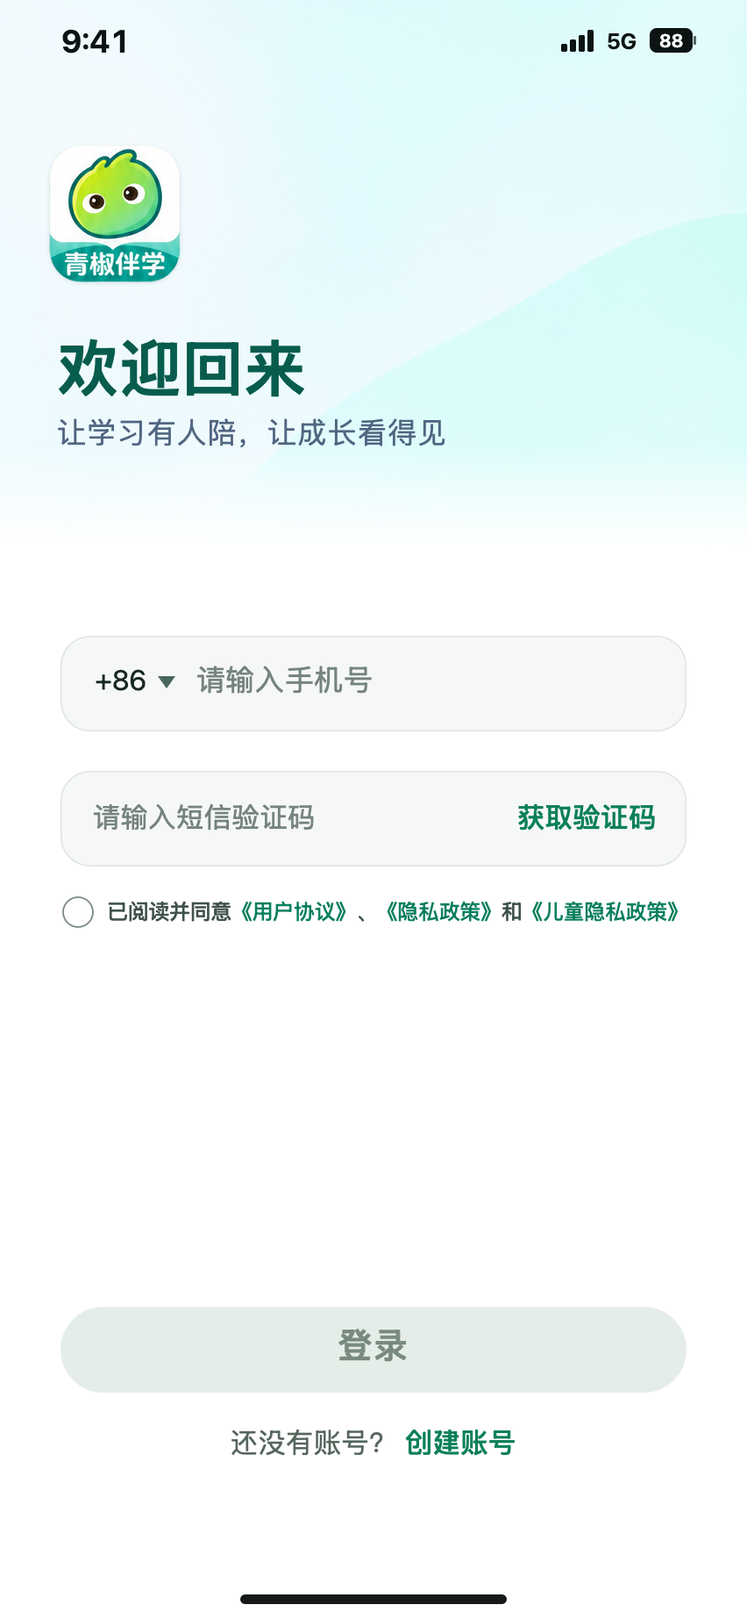
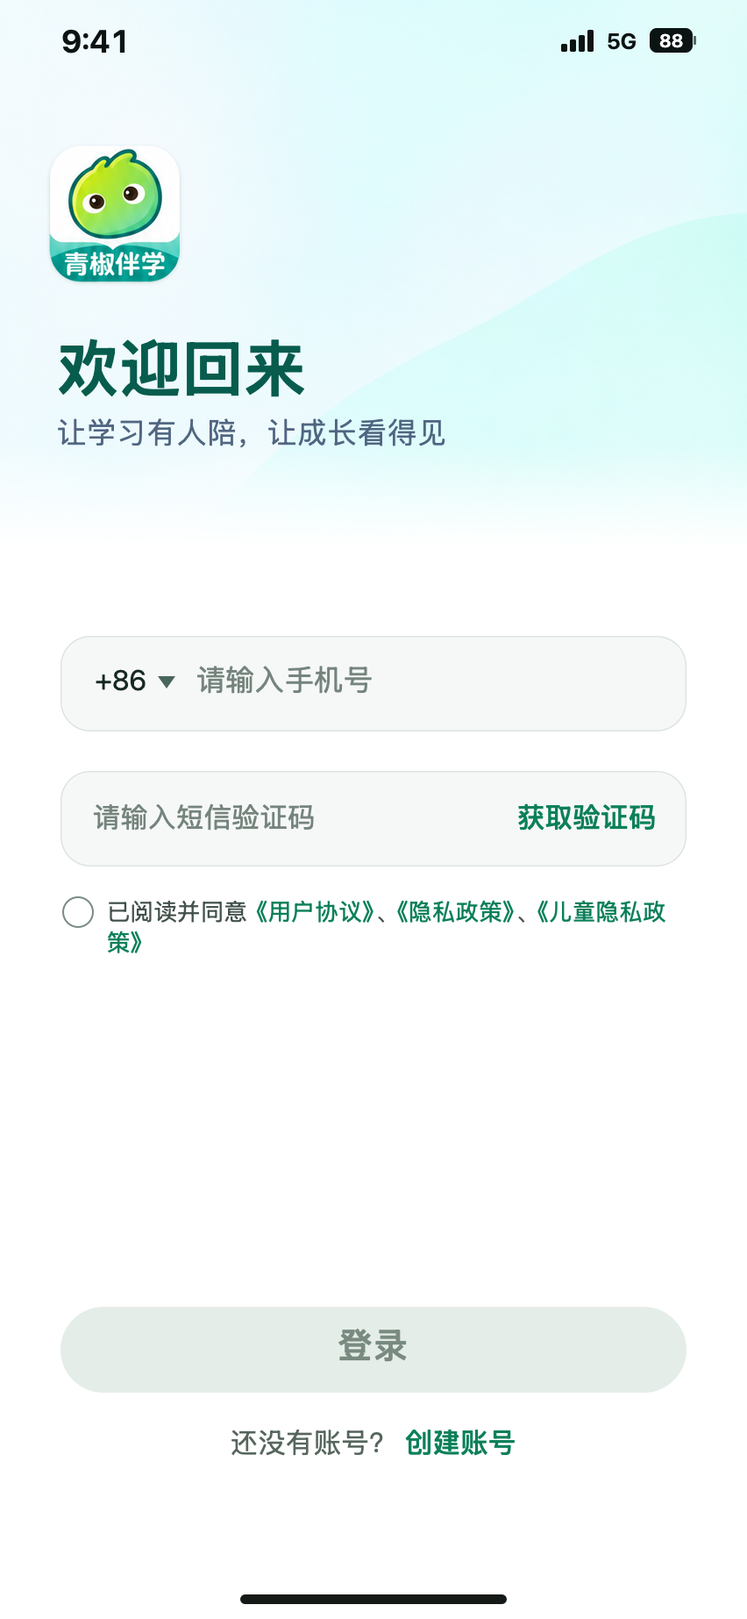
Match login consent to registration artwork

Changed region(s): [[0.1526, 0.5558, 0.9155, 0.5867]]

diff --git a/index.html b/index.html
@@ -9,13 +9,15 @@
 .learning-select{position:absolute;z-index:2;left:68%;width:23%;height:4.8%;border:0;border-radius:4px;background:#fff;color:#52668d;padding:0 3.1cqw 0 .5cqw;font-family:inherit;font-size:3.9cqw;cursor:pointer;appearance:none}
 .learning-select.grade{top:44.8%}.learning-select.textbook{top:52.2%}
 .learning-value{position:absolute;z-index:2;left:28.5%;top:31.6%;padding:0 .5cqw;background:#fff;color:#005749;font-size:4.8cqw;font-weight:700}
+.hotspot-continuation{position:absolute;border-radius:inherit}
+.hotspot:hover .hotspot-continuation,.hotspot:focus-visible .hotspot-continuation,.show-hotspots .hotspot-continuation{background:#00ad8c17;outline:1.5px dashed #009e83}
 </style><link rel="stylesheet" href="review-enhancements.css?v=20"><link rel="stylesheet" href="review-current.css?v=3">
 </head><body>
 <header><div class="brand"><div class="brand-mark">青</div><div><strong>青椒伴学 · 核心 UI</strong><small>设计审阅</small></div></div><div class="tools"><label class="toggle"><input id="hotspot-toggle" type="checkbox">显示交互热区</label><button id="overview-toggle">页面总览</button><button id="study-start" class="primary">查看学习计划</button></div></header>
 <main class="shell" id="shell" hidden><aside class="rail"><input id="search" aria-label="搜索页面" placeholder="搜索页面或状态"><nav id="nav" aria-label="设计页面目录"></nav></aside><section class="workspace"><div class="work-head"><div><h1 id="page-title"></h1><p id="page-meta"></p></div><div class="step-controls"><button id="read-interaction" class="detail-jump">交互说明</button><button id="previous" aria-label="上一张">‹</button><button id="next" aria-label="下一张">›</button></div></div><div class="stage" id="stage"><div class="screen" id="screen"><img id="screen-image" alt=""><div id="hotspots"></div><div id="learning-fields"></div></div></div></section><aside class="detail" id="interaction-detail"><h2 id="detail-title"></h2><p id="feature"></p><h3>功能、状态与权限</h3><ul id="rules"></ul><h3>查看交互去向</h3><div id="actions" class="action-links"></div><div class="file-links"><a id="original" target="_blank" rel="noopener">查看原图 ↗</a><a id="download" download>下载 PNG</a></div><p class="hint">手机稿按原尺寸提供下载。短信、上传、播放、反馈等流程使用演示数据。</p><p class="status"></p></aside></main>
 <section class="overview" id="overview"><h1>UI 设计图</h1><div id="overview-groups"></div></section>
 <script id="review-data" type="application/json">{"screens":[{"id":"00","group":"首页","name":"首页 · 已排课","file":"00-首页-已排课.png"},{"id":"00-empty","group":"首页","name":"首页 · 未排课","parent":"00","file":"00-首页-未排课.png"},{"id":"01","group":"账号","name":"手机号登录","parent":null,"spec":"A clean welcoming phone-code login screen, no tabs or back arrow. Compact green pepper smiling brand logo above 青椒伴学. Warm heading 欢迎回来 and subtitle 让学习有人陪，让成长看得见. White form card contains labels 购课登记手机号 and 短信验证码, phone input placeholder 请输入购课登记手机号, code input 请输入验证码 and inline 获取验证码. Wide turquoise 登录并开始学习 button. Below an UNCHECKED consent checkbox with 我已阅读并同意 plus separate 用户协议 and 隐私政策 text links. Small supporting text 仅面向已购伴学服务、由老师建档的学生. No registration, no password login, no social logins, no fake SMS duration/countdown, no demonstration 123456 in product UI. Friendly illustration no more than 20% of screen.","file":"01-手机号登录.png"},{"id":"02","group":"账号","name":"选择学生","parent":null,"spec":"Subpage title 选择学生. Heading 今天，陪谁一起学习？ subtitle 同一账号下的学生，学习记录各自独立. Two large tappable white student rows: illustrated friendly pepper avatar, 林小禾 / 五年级 · 数学, right chevron; second slightly different friendly pepper expression, 林小满 / 七年级 · 数学, right chevron. Subtle current badge 当前学生 on 林小禾 for this switch-student variant, not an editable control. Bottom explanation 学生档案由老师建立，如有疑问请联系老师. No 新增学生, no editing grade, no destructive controls. No bottom tabs.","file":"02-选择学生.png"},{"id":"02A","group":"账号","name":"完善学习信息","parent":"02","file":"02A-完善学习信息-v2.png","spec":"沿用02的852×1846画布比例；按当前学生确认年级及教材版本。","artwork":"assets/learning-reference.png"},{"id":"03","group":"账号","name":"未关联学生","parent":null,"spec":"Subpage title 暂未关联学生. Spacious centered empty-state illustration: small friendly pepper holding an unlinked student card, modern teal/lime illustrative style, not sad or alarming. Title 当前手机号尚未关联学生. Body 请使用购课登记手机号登录，或通过已有服务渠道联系老师. A single primary 更换手机号 button. Below subtle helper 学生档案由老师建立. No 自动创建, no 注册, no invented teacher contact QR or unknown phone.","file":"03-未关联学生.png"},{"id":"04","group":"学习","name":"周历与待发布周报","parent":null,"spec":"Main STUDY tab screen. Page heading 学习, subtitle 看得见安排，也看得见每一次努力, small pepper mascot top right matching brand. First white calendar card: title 这周的学习安排, small 回到本周 link. Week header left/right chevrons, 11月2日—11月8日. Exactly one row of seven days 周一 2, 周二 3, 周三 4, 周四 5, 周五 6, 周六 7, 周日 8. 4 selected turquoise rounded capsule, small course dots under 2,4,6, no dots other dates. Supporting legend 有已发布安排 · 点击日期查看. Below section 本周学习周报, generous white empty-state card with small illustrated report/book icon, 本周周报尚未发布, 老师发布后，你可以在这里查看, secondary outlined 查看上周周报 button. No monthly calendar, no separate tabs for 周计划/学习周报, no create plan control. Bottom navigation visible with 学习 active.","file":"04-周历与待发布周报.png"},{"id":"05","group":"学习","name":"上周已发布周报","parent":"04","spec":"Keep precisely the same 学习 main screen layout as second reference, with 学习 tab selected. Calendar week changes to 10月26日—11月1日 and seven day numbers 26,27,28,29,30,31,1, course dots under26,28,30; 30 selected. Section 上周学习周报. Replace unpublished empty card with published report card, small report illustration on right, title 一周，一点进步, date10.26—11.01, metadata 3次安排 · 2份作业已提交, small 已发布 · 第1版 pill, turquoise 查看周报 button. Keep 回到本周 link and week chevrons.","file":"05-上周已发布周报.png"},{"id":"06","group":"学习","name":"日期课程弹层","parent":"04","spec":"Date-schedule BOTTOM SHEET overlay on the same 学习 calendar screen as second reference. Dim background softly but retain recognizable calendar and tab bar; overlay covers lower ~53%. Sheet white, rounded top corners, drag handle and close x. Title 11月4日的学习安排, subtitle 周三 · 已发布. One course white/mint card: 数学, 小数乘法的算理, 今天19:00—19:40. Small beautiful math video thumbnail 0.3 × 4 with play symbol, metadata 视频1个 · 原练习3题. Two clear actions: primary 进入学习, secondary 预览练习. Do not repeat 今天上课 badges, do not force video before practice. Sheet padded above home indicator, no tab bar on top of sheet.","file":"06-日期课程弹层.png"},{"id":"07","group":"学习","name":"当天无课程弹层","parent":"06","spec":"State variant of the date-schedule bottom sheet second reference. Background calendar retains current week but select 周四5. Compact white bottom sheet about 36% height with close button and handle. Heading 11月5日的学习安排. Small outlined mint calendar illustration. Message 当天暂无已发布课程. Supporting text 可以切换日期，查看其他学习安排. Neutral 知道了 button that closes sheet. No course cards, no 创建计划 or guessed future plans, no fake data.","file":"07-当天无课程弹层.png"},{"id":"08","group":"课时","name":"课时详情","parent":null,"spec":"Subpage header 学习内容. Top date 11月4日 周三 · 19:00—19:40, heading 小数乘法的算理. Supporting 按自己的节奏开始，不需要依次完成. FOUR compact separate white action cards stacked with balanced spacing, not a timeline requiring order. Each has colorful icon left, text middle and control right:\n看视频 / 已观看35% / 继续观看.\n做练习 / 原练习 · 3题 · 可下载打印 / 预览练习.\n交作业 / 纸笔完成后，拍照整份上传 / 上传作业.\n老师反馈 / 老师发布后可以查看 / 查看状态 (secondary).\nAt bottom a quiet tip 视频、练习与作业可自由进入. No completed/掌握 claims. No empty 加练 entry before teacher publishes, no tabs. All four action cards must fit without compressed glyphs.","file":"08-课时详情.png"},{"id":"09","group":"课时","name":"未来课时未开放","parent":"08","spec":"Exact layout variant of lesson detail reference. Date11月6日 周五 · 19:00—19:40, same course 小数乘法的算理. Add quiet visible mint notice 11月6日00:00开放视频与作业提交 and small 北京时间. 看视频 card locked with 未到学习日 and gray disabled 待开放; 做练习 card remains active 预览练习 with3题 and PDF info; 交作业 locked 待开放; 老师反馈 secondary 查看状态 not a fake published result. Supporting text 现在可以预览练习. No countdown or unlock time19:00; schedule time is not the lock threshold.","file":"09-未来课时未开放.png"},{"id":"10","group":"视频","name":"视频学习 · 多课程","parent":null,"spec":"390×844布局基准，852×1846设计稿；一排三节课程，播放器内倍速，关键节点真人形象AI老师讲解示意；下方总结卡片留足间距，无播放位置提示行。","file":"10-视频学习-v2.png","artwork":"assets/video-reference.png"},{"id":"11","group":"视频","name":"网络失败","parent":"10","spec":"Same 视频学习 layout as reference. Within 16:9 player replace lesson image with calm very pale mint error surface, small tasteful disconnected-network illustration, heading 网络连接失败, helper 请检查网络后重试 and primary 重试播放 button. Keep below course 小数乘法的算理 and remembered-position helper. Bottom 前往练习 remains accessible. No cartoon alarm, no entire-screen huge warning. Preserve page geometry.","file":"11-网络失败.png"},{"id":"12","group":"视频","name":"无观看权限","parent":"10","spec":"Same 视频学习 page geometry. In player state surface use small mint shield/lock illustration, heading 暂无该视频观看权限, helper 请联系老师了解详情. No retry-play button, no purchase or renew CTA. Course title and 前往练习 remain below. Secondary 联系老师 text control may open existing shared contact sheet. Distinguish this state clearly from network failure.","file":"12-无观看权限.png"},{"id":"13","group":"视频","name":"资源不可用","parent":"10","spec":"Same 视频学习 page geometry. In player state area show small mint file/video unavailable illustration, heading 视频资源暂不可用, helper 请稍后再试，或联系老师了解详情. No claim permission expired, no invented reason, no purchase or renewal. Keep course heading and 前往练习 below.","file":"13-资源不可用.png"},{"id":"14","group":"视频","name":"观看有效期届满","parent":"10","spec":"Same 视频学习 page geometry. Player state shows small calendar-lock illustration, heading 视频观看有效期已届满, helper 请联系老师了解详情. Secondary 联系老师 button. Retain 小数乘法的算理 and 前往练习 below. Do not show guessed validity length or automatic renewal. Do not call this 服务到期: video authorization is independent of service.","file":"14-观看有效期届满.png"},{"id":"15","group":"练习作业","name":"原练习预览","parent":null,"spec":"Subpage 练习预览. Label 原练习 · 纸笔作答, right 共3题, heading 小数乘法的算理. White paper-like content with three clear numbered questions and generous ruled handwriting space:\n1. 计算：0.3 × 4 = ______\n2. 一盒彩笔2.5元，买3盒一共多少钱？\n3. 小禾每天步行1.2千米，5天一共步行多少千米？\nThese are static printable questions, NOT input fields, no answer buttons or correct answers.\nBottom fixed action area with outlined 下载原练习PDF and primary 完成了，上传作业. Small helper 练习PDF不含答案，反馈发布后可查看. Ensure handwriting spaces and questions visible; numbered questions printed on a single paper sheet. No bottom tabs.","file":"15-原练习预览.png"},{"id":"16","group":"练习作业","name":"老师加练预览","parent":"15","spec":"Same printable exercise page layout but nav title 巩固加练. Tag 老师发布 · 一轮加练. Title 小数乘法巩固练习, 共3题. Paper questions: 1.计算：0.4 × 3 = ______; 2.每盒彩笔2.6元，4盒共多少元？; 3.每天步行1.5千米，4天共多少千米？ Handwriting areas, no answers and no online inputs. Bottom secondary 下载加练PDF and primary 完成了，上传加练. Small text 老师发布后即可完成，不另扣课时. No automatic second round, no mastery meter.","file":"16-老师加练预览.png"},{"id":"17","group":"练习作业","name":"多图作业待提交","parent":null,"spec":"Subpage 原练习作业. Course 小数乘法的算理, subtitle11月4日 周三 · 原练习. Gentle helper 请拍清整页，保留题目和答案. White upload area: two realistic photographed elementary math homework paper thumbnails with tidy visible pencil arithmetic and page numbers 第1张, 第2张. These are photographs, not flat icons. Each thumbnail small x delete control at top-right. A third equal-size dashed mint + 添加图片 tile with 拍照或从相册选择 helper. Below note 支持多张图片，不支持PDF上传. Wide bottom primary 确认整份提交 · 2张. Helper 提交后可查看，老师退回后才能修改. Small neutral note 21:00后仍可提交. No demo-image button, no hard-coded file-size limit or max count.","file":"17-多图作业待提交.png"},{"id":"18","group":"练习作业","name":"整份提交确认","parent":"17","spec":"Exact upload page as reference behind a lightly dimmed scrim. White compact BOTTOM SHEET with handle, small check/document illustration. Heading 确认提交这份作业？ Body 共2张图片，请确认题目与答案完整清晰. Small helper 提交后可查看，老师退回后才能修改. Full turquoise 确认提交 and secondary 继续检查. Close x, safe bottom padding. Photo thumbnails behind stay selected. No automatic deletion, no irrevocable exaggerated warning.","file":"18-整份提交确认.png"},{"id":"19","group":"练习作业","name":"上传失败保留图片","parent":"17","spec":"Exact editable upload page geometry as reference, keep BOTH homework photo thumbnails selected with delete controls and add tile. Add in-context gentle coral error row 上传失败，已保留所选图片 and secondary 请检查网络后重试 near submission area. Primary button 重试整份提交 · 2张. No reset to empty, no success badge, no clearing thumbnails. Maintain original course/date and readable helper. A soft red error icon only, not a full red page.","file":"19-上传失败保留图片.png"},{"id":"20","group":"练习作业","name":"提交成功只读","parent":"17","spec":"Same 原练习作业 page, course/date. Replace upload zone with submitted white card. Small mint success illustration, heading 作业已提交, subtitle 等待老师反馈. Show exactly two uploaded homework photo thumbnails labelled 第1张 and 第2张 in read-only mode: NO delete x, NO +tile, NO replace/upload action. Supporting 提交后不可自行覆盖，老师退回后可重新上传. Secondary 查看反馈状态 button. Small success toast 已提交，等待老师反馈 at lower area, not over controls. No invented response deadline.","file":"20-提交成功只读.png"},{"id":"21","group":"练习作业","name":"老师退回补交","parent":"17","spec":"Editable upload state nav 原练习作业, course 小数乘法的算理, date11月2日 周一 · 原练习. Prominent but soft amber notice: 老师已退回，请补充上传, explanation 第3题照片不完整，请补充包含题目和答案的整页照片. Preserve two existing photo thumbnails, each has delete x and 第1张/第2张 labels, plus +添加图片 tile. One outlined amber marker on second thumbnail 待补充. Bottom primary 确认补交 · 2张. Helper 21:00后仍可提交. No teacher-side buttons, no losing original images, no close-service notice in this active-service state.","file":"21-老师退回补交.png"},{"id":"22","group":"练习作业","name":"作业图片大图预览","parent":"17","spec":"Full-screen IMAGE VIEWER, not upload editor. Deep charcoal backdrop, top statusbar light. Top-left back chevron, centered 作业图片, top-right 1 / 2. Large legible realistic photograph of elementary math homework sheet centered with correct paper proportions, handwritten pencil calculations for 0.3×4=1.2, 2.5×3=7.5元, 1.2×5=6千米, with appropriate question text. Entire sheet visible without stretching, subtle margin. Bottom understated 左右滑动查看图片 and small home indicator. No delete button, no sharing to external platforms, no extra tab bar. This viewer may be dark because photo viewing requires focus; keep brand control accent turquoise.","file":"22-作业图片大图预览.png"},{"id":"23","group":"反馈周报","name":"反馈待发布","parent":null,"spec":"Subpage 老师反馈. Course 小数乘法的算理, date11月4日 周三. Main centered white state card with friendly small illustrated letter/report and tiny pepper, heading 已提交，等待老师反馈. Supporting 老师正式发布后，你可以看到逐题结果与学习建议. Secondary 查看已提交作业. Keep sufficient airy spacing. No provisional AI results, no answers, no visible draft version, no countdown or promised release time. A discreet bottom text 每一次认真，都值得被看见.","file":"23-反馈待发布.png"},{"id":"24","group":"反馈周报","name":"老师反馈","parent":null,"spec":"蓝色为今日知识点，红色为练习掌握情况，绿色为后续加强方向；错题解析支持批注详情底部抽屉和不同批注原图。","file":"24-老师反馈-v2.png","artwork":"assets/feedback-reference.png"},{"id":"24A","group":"反馈周报","name":"练习批改详情","parent":"24","file":"24A-批注详情-v2.png","artwork":"assets/feedback-reference.png"},{"id":"25","group":"反馈周报","name":"学习周报概览","parent":null,"spec":"Subpage 学习周报. Mint introductory area small report illustration; date10月26日—11月1日; title 小步向前，每一步都算数; subtitle 林小禾 · 数学周报 · 已发布第1版. Main white stats card 这一周的学习记录 with exactly 3 安排课程, 2 提交作业, 1 待提交. Next card 练习记录 with 3 rows: 原练习正确率 / 4/6 · 66.7%; 错题加练 / 1/3 · 33.3%; 全对巩固 / 暂无数据. Small informational note 原练习未交与待复核单列；加练待复核计入分母，不等同答错. Follow teacher-suggestion card visible near bottom 林老师想对你说, short 继续练习应用题，记得写清列式与单位. Fixed bottom 下载已发布周报PDF button with reserve space. No share link, no mastery, no study-time predictions, no red pie chart. Page can scroll, keep readable type.","file":"25-学习周报概览.png"},{"id":"26","group":"反馈周报","name":"学习周报明细续屏","parent":"25","spec":"A scrolled continuation of SAME 学习周报 detail, not a new module. Keep pinned back header 学习周报, small 已发布第1版. At top teacher card 林老师想对你说 with photo and advice 你认真完成了两次练习。下周继续练习应用题，记得写清列式与单位；未提交的作业也可以补上. Next card 课程与视频安排 with three entries:\n10月26日 小数乘整数 / 安排已结束;\n10月28日 小数乘小数 / 安排已结束;\n10月30日 小数乘法的应用 / 安排已结束.\nEach small tasteful video thumbnail, no fabricated watched status.\nNext explanation card 统计说明: 原练习：2份已完整复核，1份未交单列. 加练：1题正确、1题错误、1题待复核. 安排结束不代表学习完成. Distinguish 待复核 from 错误. Bottom same fixed 下载已发布周报PDF button. Do not duplicate top hero or nav tabs. Readable breathing room.","file":"26-学习周报明细续屏.png"},{"id":"27","group":"我的","name":"我的 · 反馈中心入口","parent":null,"spec":"原林老师企业微信卡片替换为反馈中心入口；点击跳转37反馈中心，不展开联系老师弹层。","file":"27-我的-v2.png","artwork":"assets/my-reference.png"},{"id":"37","group":"我的","name":"反馈中心","parent":"27","file":"37-反馈中心-v2.png","artwork":"assets/center-reference.png"},{"id":"29","group":"我的","name":"退出登录确认","parent":"27","spec":"Same 我的 page softly dimmed behind a centered compact white rounded confirmation dialog. Heading 退出当前账号？ Body 学习记录会保留，下次登录后可继续查看. Two equal horizontally aligned buttons 取消 neutral and 确认退出 turquoise. No danger-red destructive delete-account action. Background bottom tab remains visible dimmed. No invented checkbox or account erasure.","file":"29-退出登录-v2.png","artwork":"assets/my-reference.png"},{"id":"30","group":"练习作业","name":"服务结束历史作业只读","parent":"20","spec":"Same read-only submitted 原练习作业 layout as reference. Course 小数乘法的算理 date11月2日 周一 · 原练习. At top soft amber note 服务已结束，历史作业仍可查看，不支持补交. Two read-only homework thumbnails with no delete/add controls. Label 历史作业 · 已提交. Bottom neutral contact button 联系老师. No 上传/补交 enabled button, no clearing history. A small helpful text 视频观看权限独立，以资源实际状态为准. This is service ended, NOT video expired.","file":"30-服务结束历史作业只读.png"},{"id":"31","group":"状态规范","name":"服务状态组件规范","parent":"27","spec":"EXCEPTION to single phone screenshot: create ONE polished portrait 390:844 COMPONENT STATE SHEET, same visual system and readable compact Chinese, no phone statusbar or bottom tabs. Title 伴学服务 · 状态规范, subtitle 四种状态的统一表达. Four vertically stacked white compact component cards:\n已暂停: 30总课时 /6已消 /24剩余; 暂停期间不新增安排，历史作业仍可补交.\n课时已耗尽 · 有效期内:30总课时 /30已消 /0剩余; 不新增安排，历史作业仍可补交.\n已到期:30总课时 /6已消 /24剩余; 历史记录可查看，作业不可补交.\n已结束:30总课时 /6已消 /24剩余; 历史记录可查看，作业不可补交.\nEach status combines label and gentle semantic icon, never color only. Footer 视频权限独立，不随服务状态自动取消. Keep common student service dates2026.10.20—2027.01.20 as fixture in small line once, no arbitrary reason for paused/ended and no renewal CTA. This is a labeled design handoff sheet showing reusable components, not all these states simultaneously in actual product.","file":"31-服务状态组件规范.png"},{"id":"32","group":"状态规范","name":"表单与操作反馈规范","parent":"01","spec":"EXCEPTION: ONE portrait 390:844 UI COMPONENT STATE SHEET, not actual app page. Title 操作反馈 · 状态规范. Clean readable white/mint examples of these six independent components with headings:\n1 手机号输入错误: phone input shows1380000800 in soft coral border; helper 请输入正确的11位手机号.\n2 验证码错误: code input ******; helper 验证码错误或已失效，请重试.\n3 未同意协议: checkbox unchecked; helper 请先阅读并同意用户协议与隐私政策.\n4 上传中: turquoise disabled button spinner 正在提交，请稍候; note 保留图片，避免重复提交.\n5 复制结果: two small separate toast examples 已复制企业微信号 and 复制未成功，请长按微信号复制.\n6 图片类型错误: neutral inline toast 仅支持图片，不支持PDF.\nNo duration/countdown values, no invented upload maximum, no fake submission success claim. Use realistic input/button components matching approved visual style, tidy spacing and clearly separated examples. No bottom tabs or phone statusbar, these are implementation reference components. Include 逐题状态 reusable badges 正确/错误/未作答/待复核 with icons.","file":"32-表单与操作反馈规范.png"},{"id":"33","group":"账号","name":"协议阅读模板","parent":null,"spec":"Subpage title 用户协议. Slim subtitle 青椒伴学. Clean white reading surface within mint canvas. Show honest placeholder reading template, not fabricated legal contract: small gray label 协议正文待业务与法务提供, title 用户协议, one short paragraph 这里将展示经确认的正式协议正文。当前页面仅用于展示阅读页样式与返回路径. Add modest section example 适用范围 / 正文确认后展示 and small label 隐私政策共用本阅读模板. Neutral back arrow in header and bottom 返回上一页 button. No fake consent to nonexistent legal terms, no registration/payment or legal guarantees. Important: this is a visually finished reading-page TEMPLATE with explicitly pending text, not a claim that legal document is complete.","file":"33-协议阅读模板.png"},{"id":"34","group":"练习作业","name":"未来课程练习可预览提交未开放","parent":"15","file":"34-未来课程练习可预览提交未开放.png","spec":"Future-course variant of the exact original exercise preview reference. Keep nav练习预览, course小数乘法的算理, all three original questions and handwriting space, readable type, card and download button. Small quiet notice above questions 11月6日00:00开放作业提交 · 北京时间. Bottom 下载原练习PDF remains ACTIVE outlined turquoise. Right submission button GRAY and DISABLED, text 学习日当天开放提交. No arrow or active turquoise upload control. Clearly label 原练习 · 纸笔作答. Future exercise can be previewed and downloaded, but original homework cannot yet be submitted. No countdown, no tabs. One portrait mobile screen390:844."},{"id":"35","group":"练习作业","name":"首次上传空态","parent":"17","file":"35-首次上传空态.png","spec":"Original homework initial upload EMPTY state of the exact reference17. Keep nav原练习作业, course小数乘法的算理, date11月4日 周三 · 原练习, gentle helper请拍清整页，保留题目和答案. Remove ALL photo thumbnails, deletion controls and page badges. Replace with clean white upload card with a small tasteful camera and paper illustration, clear dashed mint + 添加作业图片 target, helper 拍照或从相册选择 · 支持多图. Note 仅支持图片，不支持PDF上传. Bottom GRAY DISABLED primary button 确认整份提交 · 0张, no active turquoise submit. Keep helper 提交后可查看，老师退回后才能修改 and small21:00后仍可提交. Comfortable whitespace, no giant decorations, no demo-image button, no invented file count or size limits. One portrait mobile screen390:844."},{"id":"36","group":"练习作业","name":"加练作业独立上传","parent":"17","file":"36-加练作业独立上传.png","spec":"Independent EXTRA PRACTICE homework upload variant of reference17. Nav title 加练作业, course title 小数乘法巩固练习, subtitle10月30日 周五 · 老师发布加练. Small tag 加练独立提交. Keep upload card geometry, friendly helper请拍清整页，保留题目和答案. Exactly TWO realistic photographed math extra-practice homework pages, each has delete x and第1张/第2张. Third +添加图片 target 拍照或从相册选择. No original homework images; photos show handwriting on decimal multiplication worksheets. Primary 确认加练提交 · 2张. Footer 加练不另扣课时，提交记录与原练习独立. Small supporting sentence 老师发布后即可完成. No future-course lock, no second-round auto assignment. No bottom tabs. One portrait mobile screen390:844."}],"interactions":{"10":{"feature":"一张视频学习页：课程切换、播放器内控制、关键节点AI老师讲解示意及对应内容总结。","rules":["顶部单排切换小数乘法的算理、小数乘整数、小数乘法的应用。标题、例题、总结及播放状态随课程同步更新。","每个学生、每节课程分别保留当前浏览会话的进度和倍速；切换课程不混用。","倍速只出现在播放器内，支持0.75×、1.0×、1.25×、1.5×、2.0×；删除播放器外的播放位置提示行。","关键知识节点在视频左下角展示真人形象AI老师，避开题目及控制栏；拖动进度可预览出现和收起。","课程选择、播放示意、进度、倍速可操作；未连接真实视频、人物口播和AI分析服务。老师是静态形象示意，时间点为演示样例。","三节视频共用本课时的原练习入口；课程条、播放器、总结之间留足间距，仅保留一张视频页面。"],"actions":[["去练习","15"],["返回课时","08"],["网络失败状态","11"]]},"11":{"feature":"网络失败，可重试播放。","rules":["保留上次播放位置；重试成功回正常态。","加载过程中防重复重试，失败不清空学习上下文。"],"actions":[["重试播放成功","10"],["前往练习","15"],["返回课时","08"]]},"12":{"feature":"当前视频未获观看权限。","rules":["隐藏播放控件与倍速操作，不出现购买或续费按钮。","保留课时、练习与历史记录，提供联系老师路径。"],"actions":[["反馈中心（共用弹层）","37"],["前往练习","15"],["返回课时","08"]]},"13":{"feature":"视频资源暂不可用，与网络故障、权限原因分开。","rules":["不猜测资源失效原因，不显示成功或已过期的误导文案。","数据恢复后仍从已保存位置播放。不可操作的播放器控制应隐藏或禁用。"],"actions":[["资源恢复后","10"],["前往练习","15"],["返回课时","08"]]},"14":{"feature":"独立视频观看有效期届满。","rules":["禁止播放并移除播放控件。与伴学服务状态独立判断。","不编造小学／初中观看期限、起算方式或续费规则。"],"actions":[["反馈中心（共用弹层）","37"],["前往练习","15"],["返回课时","08"]]},"15":{"feature":"原练习纸笔预览与PDF下载。","rules":["保留题号、题序及手写区，不做在线答题。","下载不含标准答案。只有正式反馈发布后才展示答案。","PDF下载保持阅读位置；失败给出提示与重试，不清空页面。"],"actions":[["完成了，上传作业","35"],["查看未来禁用态","34"],["返回课时","08"]]},"16":{"feature":"老师正式发布的一轮独立加练。","rules":["原练习与加练PDF、图片与提交状态独立。","老师发布后即可进入，不等待下一个学习日，不另扣课时，不自动追加第二轮。"],"actions":[["完成了，上传加练","36"],["返回反馈","24"]]},"17":{"feature":"原作业已选择两张图片的可编辑状态。","rules":["仅图片、多图整份提交；提交前可预览、增补和删除。图片移除后数量实时变化。","删除至0张时禁用提交。系统相册选择取消，保留原列表。上传前保留原文件比例与拍摄方向。","不规定未经确认的文件大小或数量上限。21:00只是处理分界，不禁止提交。"],"actions":[["确认整份提交","18"],["点击图片预览","22"],["删除全部后","35"],["模拟提交失败","19"],["返回练习","15"]]},"18":{"feature":"整份提交前确认弹层。","rules":["图片数量来自当前列表，不硬编码。继续检查与关闭不丢失图片。","点击确认进入上传中，锁定重复提交；成功只读，失败保留全部待传图片。","原练习与加练共用确认组件，背景及任务身份必须保持来源上下文。"],"actions":[["确认提交成功","20"],["确认提交失败","19"],["继续检查","17"],["上传中组件","32"]]},"19":{"feature":"上传失败，已选两张图片仍保留。","rules":["保留顺序与数量，错误提示靠近提交区。","重试仍需提交当前整份图片；不能先清空图片或误显示成功。"],"actions":[["重试并确认","18"],["点击图片","22"],["返回编辑","17"]]},"20":{"feature":"提交成功，只读查看。","rules":["成功后不可自行覆盖，不显示删除或追加入口；老师退回后才恢复编辑。","点击图片进入只读预览。成功提示短暂出现，不能遮挡内容，时长按系统组件规范。"],"actions":[["查看反馈状态","23"],["点击图片","22"],["老师退回后","21"],["正式发布反馈后","24"],["返回课时","08"]]},"21":{"feature":"老师退回后的补充上传状态。","rules":["显式展示退回原因和需补充位置，保留原有图片。","允许整份重新确认提交；补交不生成新的学习课时。","未收到教师的结构化图片定位时，只显示原因，不在生产中猜测哪张图错误。"],"actions":[["确认补交","18"],["点击图片","22"],["返回课时","08"]]},"22":{"feature":"作业图片全屏只读查看。","rules":["保持原图比例，支持左右切换、页码和缩放查看；关闭回来源页。","预览不删除图片，不改变作业状态；支持屏幕阅读器的图片次序说明。","本稿纸面内容仅为AI生成示意，正式预览应显示实际上传原图。"],"actions":[["返回待提交作业","17"],["查看已提交只读页","20"]]},"23":{"feature":"已提交但反馈尚未正式发布。","rules":["不展示AI初步批改、不展示教师草稿、不暴露答案。","未交原练习时同组件文案改为老师反馈尚未发布；服务结束时提示未完成服务不再继续。","老师发布后刷新到正式版，不许学生触发发布。"],"actions":[["查看已提交作业","20"],["老师正式发布后","24"],["返回课时","08"]]},"24":{"feature":"老师的当日反馈、错题解析和多图批改详情。","rules":["蓝色文字展示今日所学知识点，红色文字展示练习掌握情况，绿色文字说明后续重点加强方向。","错题解析分学生作答、参考答案、解题思路；反馈仅展示正式发布版本。","查看批注详情打开当前页底部抽屉：蒙层、圆角、拖动条、关闭按钮，缩略图按两列四行展示。","8张内容不同的批注示例可点击放大，支持上一张、下一张、放大、缩小、还原、拖动及双指缩放；示例图片不是真实学生作业。","关闭原图回缩略图，关闭抽屉返回当前反馈；教师修改草稿不覆盖旧正式版。"],"actions":[["查看批注抽屉","24A"],["进入老师安排的加练","16"],["返回课时","08"]]},"25":{"feature":"已发布学习周报的概览上屏。","rules":["按学生和周展示正式版，下载同版本PDF；草稿不显示且不能下载。","原练习未交／待复核单列；加练待复核计分母但不是答错；组合题按小题统计。","图示3/2/1与4/6、1/3均为原型样例，不作学习掌握或时长推算。"],"actions":[["向下查看周报明细","26"],["返回所选周","05"]]},"26":{"feature":"同一周报的下半部分，非独立业务页面。","rules":["承接老师建议、课程视频安排与统计说明。安排结束不代表学习完成。","补交只更新后台草稿，正式重新发布后学生可见版及PDF才变化；不得直接覆盖旧版。","下载当前学生和发布版本PDF，不提供分享链接。"],"actions":[["向上回概览","25"],["返回所选周","05"]]},"27":{"feature":"当前学生、伴学服务和反馈中心入口。","rules":["学生档案、课包总额/已消/剩余/有效期只读。","手机号换绑交由老师核实后后台处理，点击给说明而非开放自助编辑。","顶部切换学生，所有数据随学生切换；退出账号保留学习记录。","原林老师企业微信卡片改为反馈中心；点击进入独立反馈页，不弹出联系老师弹层。"],"actions":[["切换学生","02"],["反馈中心","37"],["用户协议／隐私政策模板","33"],["退出登录","29"],["其他服务状态","31"],["首页","00"],["学习","04"]]},"29":{"feature":"退出登录二次确认。","rules":["取消回当前页，确认清理当前登录状态并返回登录页。","保留服务器学习记录；不得误做账号注销、删除学生或清空学习历史。","背景使用更新后的我的页面，原林老师企业微信卡片已删除，保留反馈中心入口。"],"actions":[["取消","27"],["确认退出","01"]]},"30":{"feature":"服务到期或手动结束后的历史作业只读模板。","rules":["保留历史记录和图片，禁止新增/补交；没有记录时展示暂无提交记录。","暂停与课时耗尽但有效期内仍可补交，不应复用此只读权限。","视频另按自身授权与观看有效期判断。"],"actions":[["查看图片","22"],["反馈中心","37"],["服务状态规范","31"],["返回我的","27"]]},"31":{"feature":"设计交付组件页：四种服务状态，非学生端同时出现的页面。","rules":["暂停、课尽有效期内：历史作业可补交；到期、手动结束：只读。","服务中使用27，异常状态替换同一服务卡，不增加用户可操作的状态选择器。","服务期限和课时为样例，结束原因来自后台；视频授权独立。"],"actions":[["我的服务中","27"],["服务结束历史只读","30"]]},"32":{"feature":"设计交付组件页：表单、提交过程、复制、类型错误及逐题状态。","rules":["校验错误定位对应输入，并保留用户输入。上传过程防重复提交。","结果标签含图标和文字；未作答与待复核不等于错误。","不以生成图中文字作为最终文案源，实施采用交互说明内的准确文案与真实文本组件。"],"actions":[["登录页","01"],["上传空态","35"],["上传失败","19"],["反馈中心","37"],["正式反馈","24"]]},"33":{"feature":"用户协议与隐私政策共用的阅读页样式模板。","rules":["正文须业务/法务提供，此页不包含真实法律条款。","从登录或我的进入，返回相同来源，不自动勾选同意。","正式长正文采用可滚动正文与固定返回导航，保持正常字号。"],"actions":[["返回登录","01"],["返回我的","27"]]},"34":{"feature":"未来课程的原练习可预览可下载，提交未开放。","rules":["提交控件禁用，并展示学习日北京时间00:00开放说明。","下载PDF仍可操作，未开放不能从其他路径绕过提交限制。"],"actions":[["返回未来课时","09"]]},"35":{"feature":"首次上传未选择图片，提交禁用。","rules":["拍照或相册选择完成后进入可编辑列表；取消选择保持空态。","禁止0张提交，不展示示例图片快捷按钮，不接收PDF。"],"actions":[["选择两张图片后","17"],["返回练习","15"]]},"36":{"feature":"老师发布后独立加练的多图上传。","rules":["独立任务ID与图片、状态，不覆盖原练习。发布后可做，不等待下一学习日。","复用17—22的编辑/确认/失败/成功/退回/预览组件，但标题、任务与图片保持加练上下文。","加练不另扣课时、不自动追加下一轮；服务结束仍不可补交。"],"actions":[["预览共用确认组件","18"],["预览共用失败组件","19"],["返回加练","16"]]},"00":{"feature":"已排课首页：学习足迹、今日课程总览和老师发布的加练。","rules":["学习计划展示今日待学3门课程、预计学习120分钟；查看课程进入学习安排。","专属伴学展示已添加的老师和待完成加练；学习足迹展示已有知识点记录。","课程数量、时长及知识点数字为本页设计示例；实际由当前学生数据提供。","学习足迹知识图谱详情与活动落地页未在本期原型定义。"],"actions":[["查看课程／全部计划","04"],["老师加练／全部任务","16"],["查看未排课首页","00-empty"],["学习","04"],["我的","27"]]},"01":{"feature":"购课登记手机号与短信验证码登录。","rules":["必须验证11位手机号并勾选协议。验证码发送与错误提示不清空手机号。","单学生进入完善学习信息，多学生先选择学生再完善学习信息，未关联进入说明页。","发送间隔、验证码有效时长与设备策略待技术确认。"],"actions":[["多学生登录后","02"],["单学生登录后","02A"],["未关联学生","03"],["表单错误规范","32"],["阅读协议模板","33"]]},"02":{"feature":"同一账号选择当前学生，或从“我的”切换学生。","rules":["学习记录、作业、反馈、周报及服务数据按学生隔离。","登录首次选择时不显示“当前学生”；切换学生场景显示当前标记。","切换后清理上一学生的临时图片与播放器上下文，不能混用；不开放自助建档。","登录流程选择学生后进入完善学习信息，确认年级和教材版本后再进入首页。"],"actions":[["选择林小禾并完善信息","02A"],["选择林小满并完善信息","02A"],["返回我的","27"]]},"03":{"feature":"说明手机号未关联学生，不自动建档。","rules":["更换购课登记手机号登录，或通过已有服务渠道联系老师。","没有已知老师联系方式时，不生成虚构联系方式。"],"actions":[["更换手机号","01"]]},"04":{"feature":"学习主页面：周一至周日的单行周历，下方同周周报。","rules":["周历仅标注已发布课程；选中态与有课圆点独立。","周报未发布不展示草稿。上一周／下一周同步切换日期与周报；不使用月历或二级页签。"],"actions":[["上一周／查看上周周报","05"],["点击11月4日","06"],["点击11月5日","07"],["我的","27"],["首页","00"]]},"05":{"feature":"上周周历及已正式发布的周报入口。","rules":["只展示所选学生、所选周的正式发布版本。","回到本周恢复当前周及当前日期；边界周箭头按数据范围禁用。"],"actions":[["回到本周","04"],["查看周报","25"],["学习","04"],["我的","27"],["首页","00"]]},"06":{"feature":"有课日期的课程安排底部弹层。","rules":["课程名沿用视频名，不另造课时名称。","进入学习与预览练习可分别进入；关闭返回周历并保留日期。","弹层须阻断背景交互，关闭后焦点返回触发日期。"],"actions":[["进入学习","08"],["预览练习","15"],["关闭","04"]]},"07":{"feature":"无已发布课程日期的空态弹层。","rules":["选中日期无课程圆点，不显示创建计划入口。","关闭或知道了返回周历，日期选择不丢失。"],"actions":[["知道了／关闭","04"]]},"08":{"feature":"视频、原练习、作业、反馈的独立状态入口。","rules":["可以自由进入，不强制按步骤完成。观看进度不代表掌握，不触发扣课。","无加练时不显示空入口；老师正式发布加练后可追加第五个入口，复用16。","作业入口随未交／已交／退回切换到对应状态；返回恢复来源页与滚动位置。"],"actions":[["继续观看","10"],["预览练习","15"],["首次上传作业","35"],["查看反馈状态","23"],["查看未来课程状态","09"],["查看已发布反馈","24"],["返回学习","04"]]},"09":{"feature":"未来已发布课程详情。","rules":["按学习日北京时间00:00开放视频和原作业提交；19:00是安排时间，不是开放阈值。","练习预览与PDF下载保持可用。开放前按钮禁用且有原因；不做虚构倒计时。"],"actions":[["预览练习","34"],["返回学习","04"]]},"00-empty":{"feature":"未排课首页：学习足迹空态、暂无学习计划及老师未排课状态。","rules":["学习足迹展示开始学习提示和灰色图谱，不显示已有知识点数量。","学习计划提示暂无学习计划，并引导联系排课老师；不显示查看课程按钮。","专属伴学保留林老师信息，展示未排课；不展示待完成加练任务。","本稿只新增首页状态，未排课的计划列表、任务列表及知识图谱详情未另行定义。"],"actions":[["查看已排课首页","00"],["学习主页面样例","04"],["我的","27"]]},"02A":{"feature":"登录后按当前学生确认就读年级和教材版本，再开始学习。","rules":["单学生登录直接进入本页；多学生账号先选择学生。本页沿用02的视觉风格。","年级、教材版本均必选；已有信息可以回显。图稿示例为林小禾、五年级、人教版。","可操作预览支持选择年级和教材版本；信息仅在当前浏览会话按学生分别保存，未连接真实学生档案。","确认后按真实排课状态进入对应首页；审阅稿右侧提供已排课和未排课两种去向。","教材版本选项仅作原型示例，正式列表由实际支持的教材维护，不根据年级自动猜测。"],"actions":[["确认后 · 已排课首页","00"],["确认后 · 未排课首页","00-empty"],["返回选择学生","02"],["返回登录","01"]]},"24A":{"feature":"老师反馈内的批注详情底部抽屉，与参考图相同的两列四行结构。","rules":["查看批注详情打开当前页底部抽屉：蒙层、圆角、拖动条、关闭按钮，缩略图按两列四行展示。","8张内容不同的批注示例可点击放大，支持上一张、下一张、放大、缩小、还原、拖动及双指缩放；示例图片不是真实学生作业。","关闭原图回缩略图，关闭抽屉返回当前反馈；教师修改草稿不覆盖旧正式版。"],"actions":[["返回老师反馈","24"]]},"37":{"feature":"从我的进入的独立反馈中心，包含工作人员信息和反馈表单。","rules":["保留工作人员入口及反馈表单；使用紧凑联系人卡片、三选一反馈类型、问题描述和人工联系选项。","反馈类型为表扬、投诉、建议，单选；问题描述和是否需要人工联系均为必填。","联系专员的真实联系方式尚未接入；图稿不展示虚假二维码。描述上限500字，计数实时更新。","当前为UI原型，提交进行表单校验并提示反馈尚未发送；草稿在当前浏览会话按学生保留，未连接提交服务。","点击返回回到我的；不使用联系老师弹窗替代反馈中心。"],"actions":[["返回我的","27"]]}},"hotspots":{"10":[],"11":[["重试播放","10",33,32,34,5],["前往练习","15",14,75.5,72,7],["返回","08",3,5.5,8,4]],"12":[["反馈中心","37",32,35.2,37,4.6],["前往练习","15",14,75.5,72,7],["返回","08",3,5.5,8,4]],"13":[["前往练习","15",14,75.5,72,7],["返回","08",3,5.5,8,4]],"14":[["反馈中心","37",32,35.2,37,4.6],["前往练习","15",14,75.5,72,7],["返回","08",3,5.5,8,4]],"15":[["完成了，上传作业","35",51.5,87.8,45.1,4.4],["返回","08",3,5.5,8,4]],"16":[["完成了，上传加练","36",51.4,89.6,45.5,4.9],["返回","24",3,5.5,8,4]],"17":[["图片预览","22",8,28,63,18],["整份提交","18",4,84.2,92,6],["返回","15",3,5.5,8,4]],"18":[["确认提交","20",4,87,92,5.2],["继续检查","17",4,92.7,92,4.6],["返回","17",3,5.5,8,4]],"19":[["重试提交","18",4,86,92,5.5],["返回","15",3,5.5,8,4]],"20":[["图片预览","22",8,38.3,63,18.5],["查看反馈状态","23",6,82.8,88,5.4],["返回","08",3,5.5,8,4]],"21":[["确认补交","18",4,87.5,92,6],["返回","08",3,5.5,8,4]],"22":[["返回图片列表","17",3,5.5,8,4]],"23":[["查看已提交作业","20",23,60,54,6],["返回","08",3,5.5,8,4]],"24":[["进入加练","16",4.1,90.2,91.7,5.2],["返回","08",3,5.2,8,4]],"25":[["向下看明细","26",80,84,16,4],["返回","05",3,5.5,8,4]],"26":[["回概览","25",3,5.5,8,4],["返回","05",3,5.5,8,4]],"27":[["切换学生","02",71,21.5,24,4.5],["用户协议","33",5,66.3,90,4.7],["隐私政策","33",5,71,90,4.7],["退出登录","29",4,83,92,5.5],["首页","00",4,90.5,28,7.2],["学习","04",35,90.5,30,7.2],["我的","27",68,90.5,28,7.2]],"29":[],"30":[["查看图片","22",8,41,64,20],["反馈中心","37",4,88,92,6],["返回","27",3,5.5,8,4]],"33":[["返回登录","01",4,77,92,6],["返回","01",3,5.5,8,4]],"34":[["返回","09",3,5.5,8,4]],"35":[["添加作业图片","17",8,48,84,13],["返回","15",3,5.5,8,4]],"36":[["通用确认组件","18",4,84,92,6],["返回","16",3,5.5,8,4]],"00":[["查看课程","04",68.5,45.0,25.5,4.3],["全部计划","04",74,39.2,20,3.3],["老师加练","16",74.5,84.8,19,3.8],["全部任务","16",74,72.5,20,3.3],["首页","00",4,90.7,28,7.1],["学习","04",35,90.7,30,7.1],["我的","27",68,90.7,28,7.1]],"01":[["登录","02",7,60.8,86,6.2],["用户协议","33",49,73,17,3],["隐私政策","33",70,73,17,3]],"02":[["选择林小禾","02A",4,26.6,92,12],["选择林小满","02A",4,39.5,92,12]],"03":[["更换手机号","01",16,64,68,7]],"04":[["上一周","05",16,25,8,4],["11月4日","06",32,30,12,9],["11月5日","07",44,30,12,9],["查看上周周报","05",30,73,40,5],["首页","00",4,90.5,28,7.2],["学习","04",35,90.5,30,7.2],["我的","27",68,90.5,28,7.2]],"05":[["回到本周","04",72,20.6,22,3],["查看周报","25",8,68,33,5],["首页","00",4,90.5,28,7.2],["学习","04",35,90.5,30,7.2],["我的","27",68,90.5,28,7.2]],"06":[["关闭","04",89,52.5,8,4],["进入学习","08",4,91,46,5.5],["预览练习","15",52,91,44,5.5]],"07":[["关闭","04",89,52.5,8,4],["知道了","04",9,89.4,82,6]],"08":[["继续观看","10",68,29,28,6],["预览练习","15",68,42.2,28,6],["上传作业","35",68,54.5,28,6],["查看反馈状态","23",68,67.2,28,6],["返回","04",3,5.5,8,4]],"09":[["预览练习","34",68,47.8,28,6],["返回","04",3,5.5,8,4]],"00-empty":[["首页","00-empty",4,90.5,28,7.2],["学习","04",35,90.5,30,7.2],["我的","27",68,90.5,28,7.2]],"02A":[["确认并开始学习","00",4,71.3,92,7.2],["返回选择学生","02",3,6.6,8,4]],"24A":[],"37":[]}}</script>
-<script src="review-screens.js?v=6"></script>
+<script src="review-screens.js?v=7"></script>
 <script>
 const data=JSON.parse(document.getElementById('review-data').textContent);
 const previousHome=data.screens.find(screen=>screen.id==='00');
@@ -66,12 +68,35 @@ function activate(to){
   else go(to);
 }
 function artworkUrl(page,file=page.file){return encodeURI(file)+(page.revision?"?v="+page.revision:"")}
+function hotspot([label,to,x,y,w,h,continuation]){
+  const b=make('button',undefined,'hotspot');
+  b.setAttribute('aria-label',label);
+  b.title=label;
+  b.style.cssText='left:'+x+'%;top:'+y+'%;width:'+w+'%;height:'+h+'%';
+  b.append(make('span',label));
+  if(continuation){
+    const [cx,cy,cw,ch]=continuation;
+    const tail=make('i',undefined,'hotspot-continuation');
+    tail.setAttribute('aria-hidden','true');
+    Object.assign(tail.style,{
+      left:`${(cx-x)/w*100}%`,
+      top:`${(cy-y)/h*100}%`,
+      width:`${cw/w*100}%`,
+      height:`${ch/h*100}%`,
+    });
+    b.append(tail);
+  }
+  b.onclick=()=>{
+    if(to==='original') el('original').click();
+    else if(current==='02'&&to==='02A') chooseStudent(label.includes('林小满')?'林小满':'林小禾');
+    else activate(to);
+  };
+  return b;
+}
 function render(){const s=byId.get(current),info=data.interactions[current];el('page-title').textContent=s.id+' / '+s.name;el('page-meta').textContent=s.group+' · '+(['31','32'].includes(s.id)?'组件规范':(examples.has(current)?'手机原图 · 852 × 1846':'历史原型'));el('detail-title').textContent=s.name;el('feature').textContent=info.feature;el('screen-image').src=artworkUrl(s,s.artwork||s.file);el('screen-image').alt=s.name;el('screen').classList.toggle('sheet',['31','32'].includes(current));el('rules').replaceChildren(...info.rules.map(t=>make('li',t)));el('actions').replaceChildren(...info.actions.map(([label,to])=>{const b=make('button');b.append(make('span',label),make('span',to.startsWith('!')?'体验 →':(byId.get(to)?.name||'查看原图')+' →'));b.onclick=()=>{
 if(current==='02'&&to==='02A')chooseStudent(label.includes('林小满')?'林小满':'林小禾');else activate(to);
 };return b}));el('original').href=artworkUrl(s);el('download').href=artworkUrl(s);el('download').download=s.file;
-el('hotspots').replaceChildren(...(data.hotspots[current]||[]).map(([label,to,x,y,w,h])=>{const b=make('button',undefined,'hotspot');b.setAttribute('aria-label',label);b.title=label;b.style.cssText='left:'+x+'%;top:'+y+'%;width:'+w+'%;height:'+h+'%';b.append(make('span',label));b.onclick=to==='original'?()=>el('original').click():()=>{
-if(current==='02'&&to==='02A')chooseStudent(label.includes('林小满')?'林小满':'林小禾');else activate(to);
-};return b}));
+el('hotspots').replaceChildren(...(data.hotspots[current]||[]).map(hotspot));
 document.querySelectorAll('.nav-item').forEach(n=>{n.classList.toggle('active',n.dataset.id===current);if(n.dataset.id===current)n.setAttribute('aria-current','page');else n.removeAttribute('aria-current')});learningFields();el('stage').scrollTop=0;document.title=s.name+' · 青椒伴学UI设计';if(window.renderEnhancements)window.renderEnhancements();if(window.renderCurrentReview)window.renderCurrentReview(s);}
 function buildNav(){el('nav').replaceChildren(...groups.map(g=>{const section=make('section');section.append(make('h3',g));for(const s of data.screens.filter(s=>s.group===g)){const b=make('button',undefined,'nav-item');b.dataset.id=s.id;b.append(make('span',s.id),make('b',s.name));b.onclick=()=>go(s.id);section.append(b)}return section}));}
 function buildOverview(){el('overview-groups').replaceChildren(...groups.map(g=>{const section=make('section');section.append(make('h2',g));const grid=make('div',undefined,'grid');for(const s of data.screens.filter(s=>s.group===g)){const b=make('button',undefined,'thumb'),img=make('img');img.src=artworkUrl(s);img.alt=s.name;img.loading='lazy';img.decoding='async';b.setAttribute('aria-label',s.id+' / '+s.name);b.append(img);b.onclick=()=>go(s.id);grid.append(b)}section.append(grid);return section}));}

diff --git a/review-screens.js b/review-screens.js
@@ -1146,26 +1146,32 @@ window.currentReviewScreens = [
       [
         "用户协议",
         "!userPolicy",
-        30.98,
+        33.57,
         55.36,
-        16.66,
-        1.95
+        17.25,
+        1.84
       ],
       [
         "隐私政策",
         "!privacy",
-        50.43,
+        52.46,
         55.36,
-        16.66,
-        1.95
+        17.14,
+        1.84
       ],
       [
         "儿童隐私政策",
         "!childPrivacy",
-        69.87,
+        71.24,
         55.36,
-        22.22,
-        1.95
+        18.66,
+        1.84,
+        [
+          13.73,
+          57.26,
+          6.1,
+          1.95
+        ]
       ],
       [
         "登录",
@@ -1186,7 +1192,7 @@ window.currentReviewScreens = [
     ],
     "form": "login",
     "file": "screens/02-01.png",
-    "revision": 6
+    "revision": 7
   },
   {
     "id": "02-02",
@@ -1226,26 +1232,32 @@ window.currentReviewScreens = [
       [
         "用户协议",
         "!userPolicy",
-        32,
-        62.71,
-        15.4,
-        4.0
+        33.57,
+        63.71,
+        17.25,
+        1.84
       ],
       [
         "隐私政策",
         "!privacy",
-        50,
-        62.71,
-        16,
-        3.8
+        52.46,
+        63.71,
+        17.14,
+        1.84
       ],
       [
         "儿童隐私政策",
         "!childPrivacy",
-        70,
-        62.71,
-        21,
-        3.8
+        71.24,
+        63.71,
+        18.66,
+        1.84,
+        [
+          13.73,
+          65.6,
+          6.1,
+          1.95
+        ]
       ],
       [
         "创建账号",
